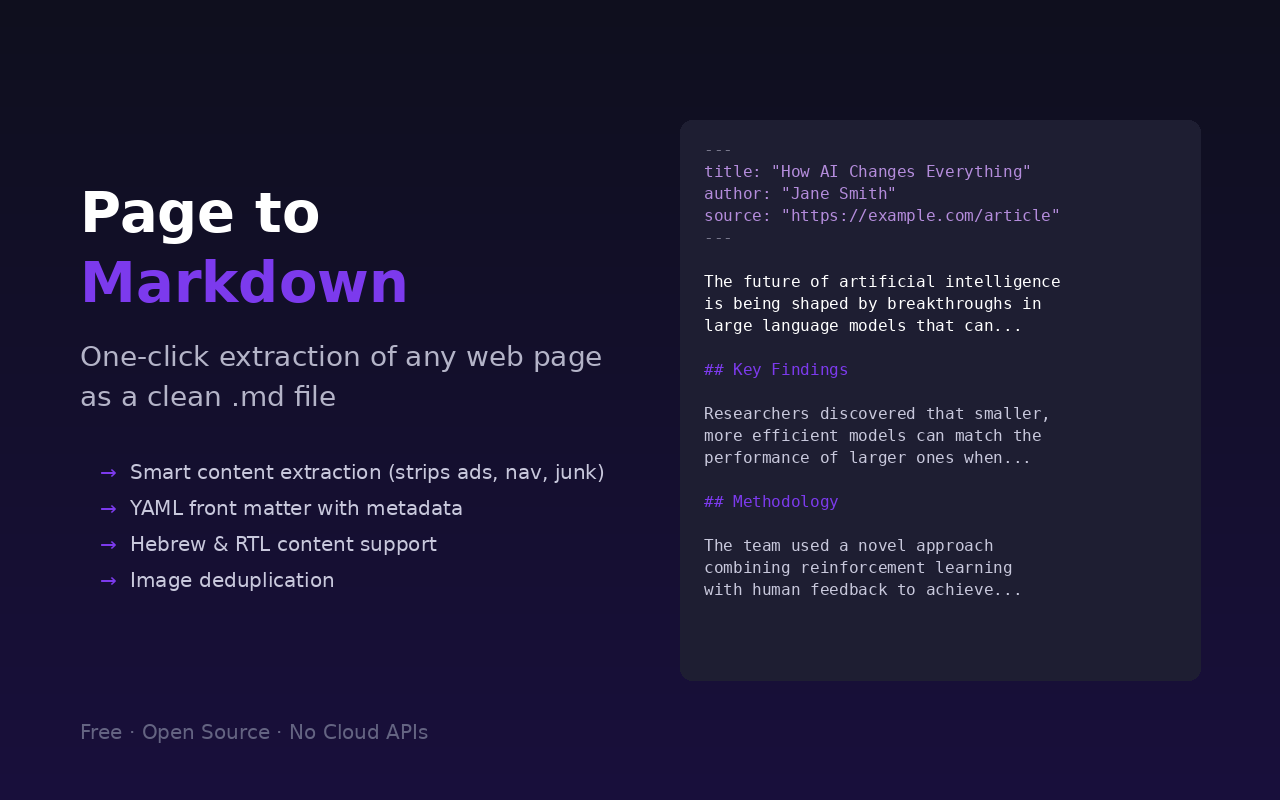
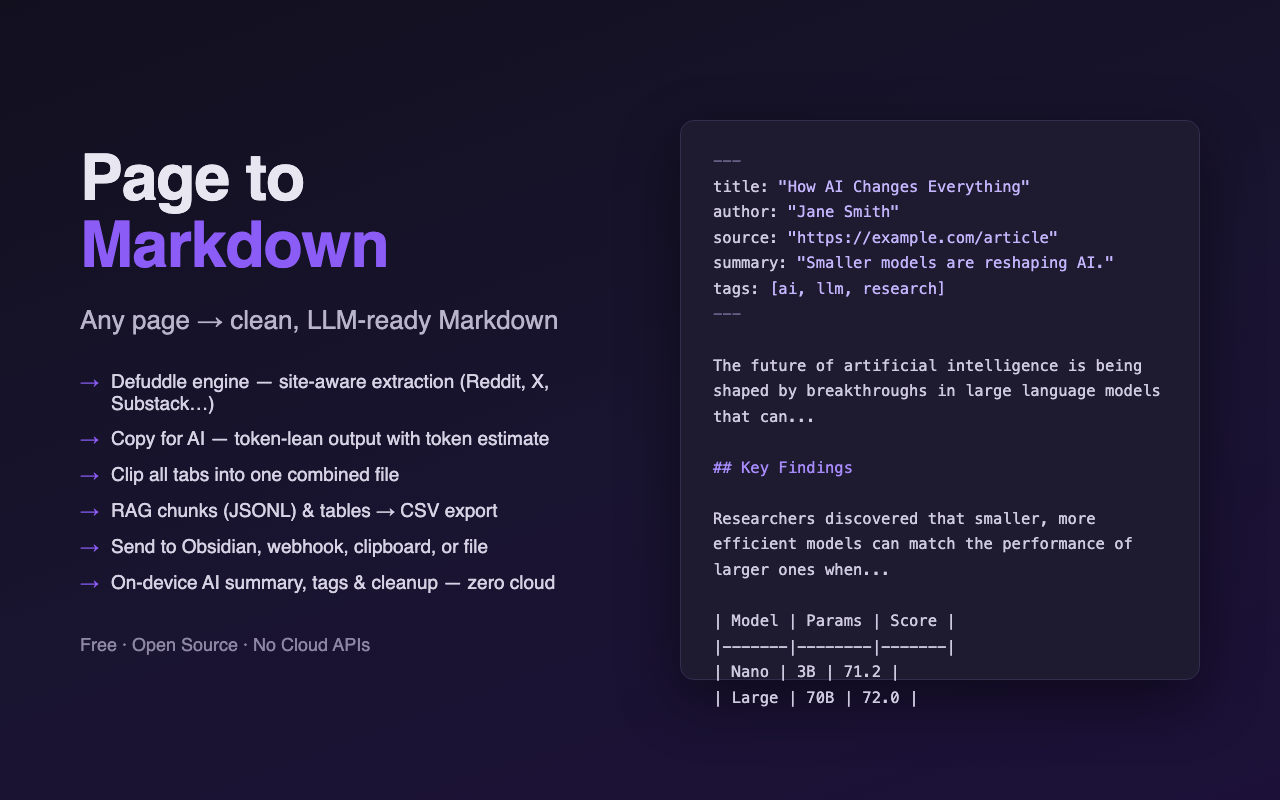
store: v1.17 promo screenshot, tile, and description
Claude-Session: https://claude.ai/code/session_01KybLepvcoqAAD4uEycLXH3

diff --git a/store/screenshot_src.html b/store/screenshot_src.html
@@ -1,0 +1,65 @@
+<!doctype html>
+<html>
+<head>
+<meta charset="utf-8">
+<style>
+  * { margin: 0; padding: 0; box-sizing: border-box; }
+  body {
+    width: 1280px; height: 800px; overflow: hidden;
+    font-family: -apple-system, "Segoe UI", Roboto, Helvetica, Arial, sans-serif;
+    background: linear-gradient(160deg, #12101f 0%, #191430 55%, #1c1038 100%);
+    color: #e8e6f0; display: flex; align-items: center;
+  }
+  .left { width: 600px; padding: 0 0 0 80px; }
+  h1 { font-size: 64px; line-height: 1.05; font-weight: 800; letter-spacing: -1px; }
+  h1 .accent { color: #8b5cf6; }
+  .sub { font-size: 26px; color: #b9b4cc; margin: 26px 0 34px; }
+  ul { list-style: none; }
+  li { font-size: 19px; color: #d6d2e4; margin: 13px 0; display: flex; gap: 12px; align-items: baseline; }
+  li::before { content: "→"; color: #8b5cf6; font-weight: 700; }
+  .foot { margin-top: 40px; font-size: 18px; color: #8d87a3; }
+  .pane {
+    position: absolute; right: 80px; top: 120px; width: 520px; height: 560px;
+    background: #1e1b31; border: 1px solid #322c4f; border-radius: 14px;
+    padding: 28px 32px; font-family: "SF Mono", Menlo, Consolas, monospace;
+    font-size: 15.5px; line-height: 1.65; color: #cfcadf; box-shadow: 0 20px 60px rgba(0,0,0,.45);
+  }
+  .dim { color: #6f6990; } .h2 { color: #a78bfa; } .str { color: #c4b5fd; }
+</style>
+</head>
+<body>
+  <div class="left">
+    <h1>Page to<br><span class="accent">Markdown</span></h1>
+    <div class="sub">Any page → clean, LLM-ready Markdown</div>
+    <ul>
+      <li>Defuddle engine — site-aware extraction (Reddit, X, Substack…)</li>
+      <li>Copy for AI — token-lean output with token estimate</li>
+      <li>Clip all tabs into one combined file</li>
+      <li>RAG chunks (JSONL) &amp; tables → CSV export</li>
+      <li>Send to Obsidian, webhook, clipboard, or file</li>
+      <li>On-device AI summary, tags &amp; cleanup — zero cloud</li>
+    </ul>
+    <div class="foot">Free · Open Source · No Cloud APIs</div>
+  </div>
+  <div class="pane">
+    <div class="dim">---</div>
+    <div>title: <span class="str">"How AI Changes Everything"</span></div>
+    <div>author: <span class="str">"Jane Smith"</span></div>
+    <div>source: <span class="str">"https://example.com/article"</span></div>
+    <div>summary: <span class="str">"Smaller models are reshaping AI."</span></div>
+    <div>tags: <span class="str">[ai, llm, research]</span></div>
+    <div class="dim">---</div>
+    <br>
+    <div>The future of artificial intelligence is being shaped by breakthroughs in large language models that can...</div>
+    <br>
+    <div class="h2">## Key Findings</div>
+    <br>
+    <div>Researchers discovered that smaller, more efficient models can match the performance of larger ones when...</div>
+    <br>
+    <div>| Model | Params | Score |</div>
+    <div>|-------|--------|-------|</div>
+    <div>| Nano  | 3B     | 71.2  |</div>
+    <div>| Large | 70B    | 72.0  |</div>
+  </div>
+</body>
+</html>

diff --git a/store/tile_src.html b/store/tile_src.html
@@ -1,0 +1,24 @@
+<!doctype html>
+<html>
+<head>
+<meta charset="utf-8">
+<style>
+  * { margin: 0; padding: 0; box-sizing: border-box; }
+  body {
+    width: 440px; height: 280px; overflow: hidden;
+    font-family: -apple-system, "Segoe UI", Roboto, Helvetica, Arial, sans-serif;
+    background: linear-gradient(160deg, #12101f 0%, #191430 55%, #1c1038 100%);
+    color: #e8e6f0; display: flex; flex-direction: column; justify-content: center; padding-left: 44px;
+  }
+  h1 { font-size: 40px; line-height: 1.08; font-weight: 800; letter-spacing: -0.5px; }
+  h1 .accent { color: #8b5cf6; }
+  .sub { font-size: 17px; color: #b9b4cc; margin-top: 14px; }
+  .foot { position: absolute; bottom: 22px; font-size: 13px; color: #8d87a3; }
+</style>
+</head>
+<body>
+  <h1>Page to<br><span class="accent">Markdown</span></h1>
+  <div class="sub">Any page → clean, LLM-ready Markdown</div>
+  <div class="foot">Free · Open Source · No Cloud APIs</div>
+</body>
+</html>
